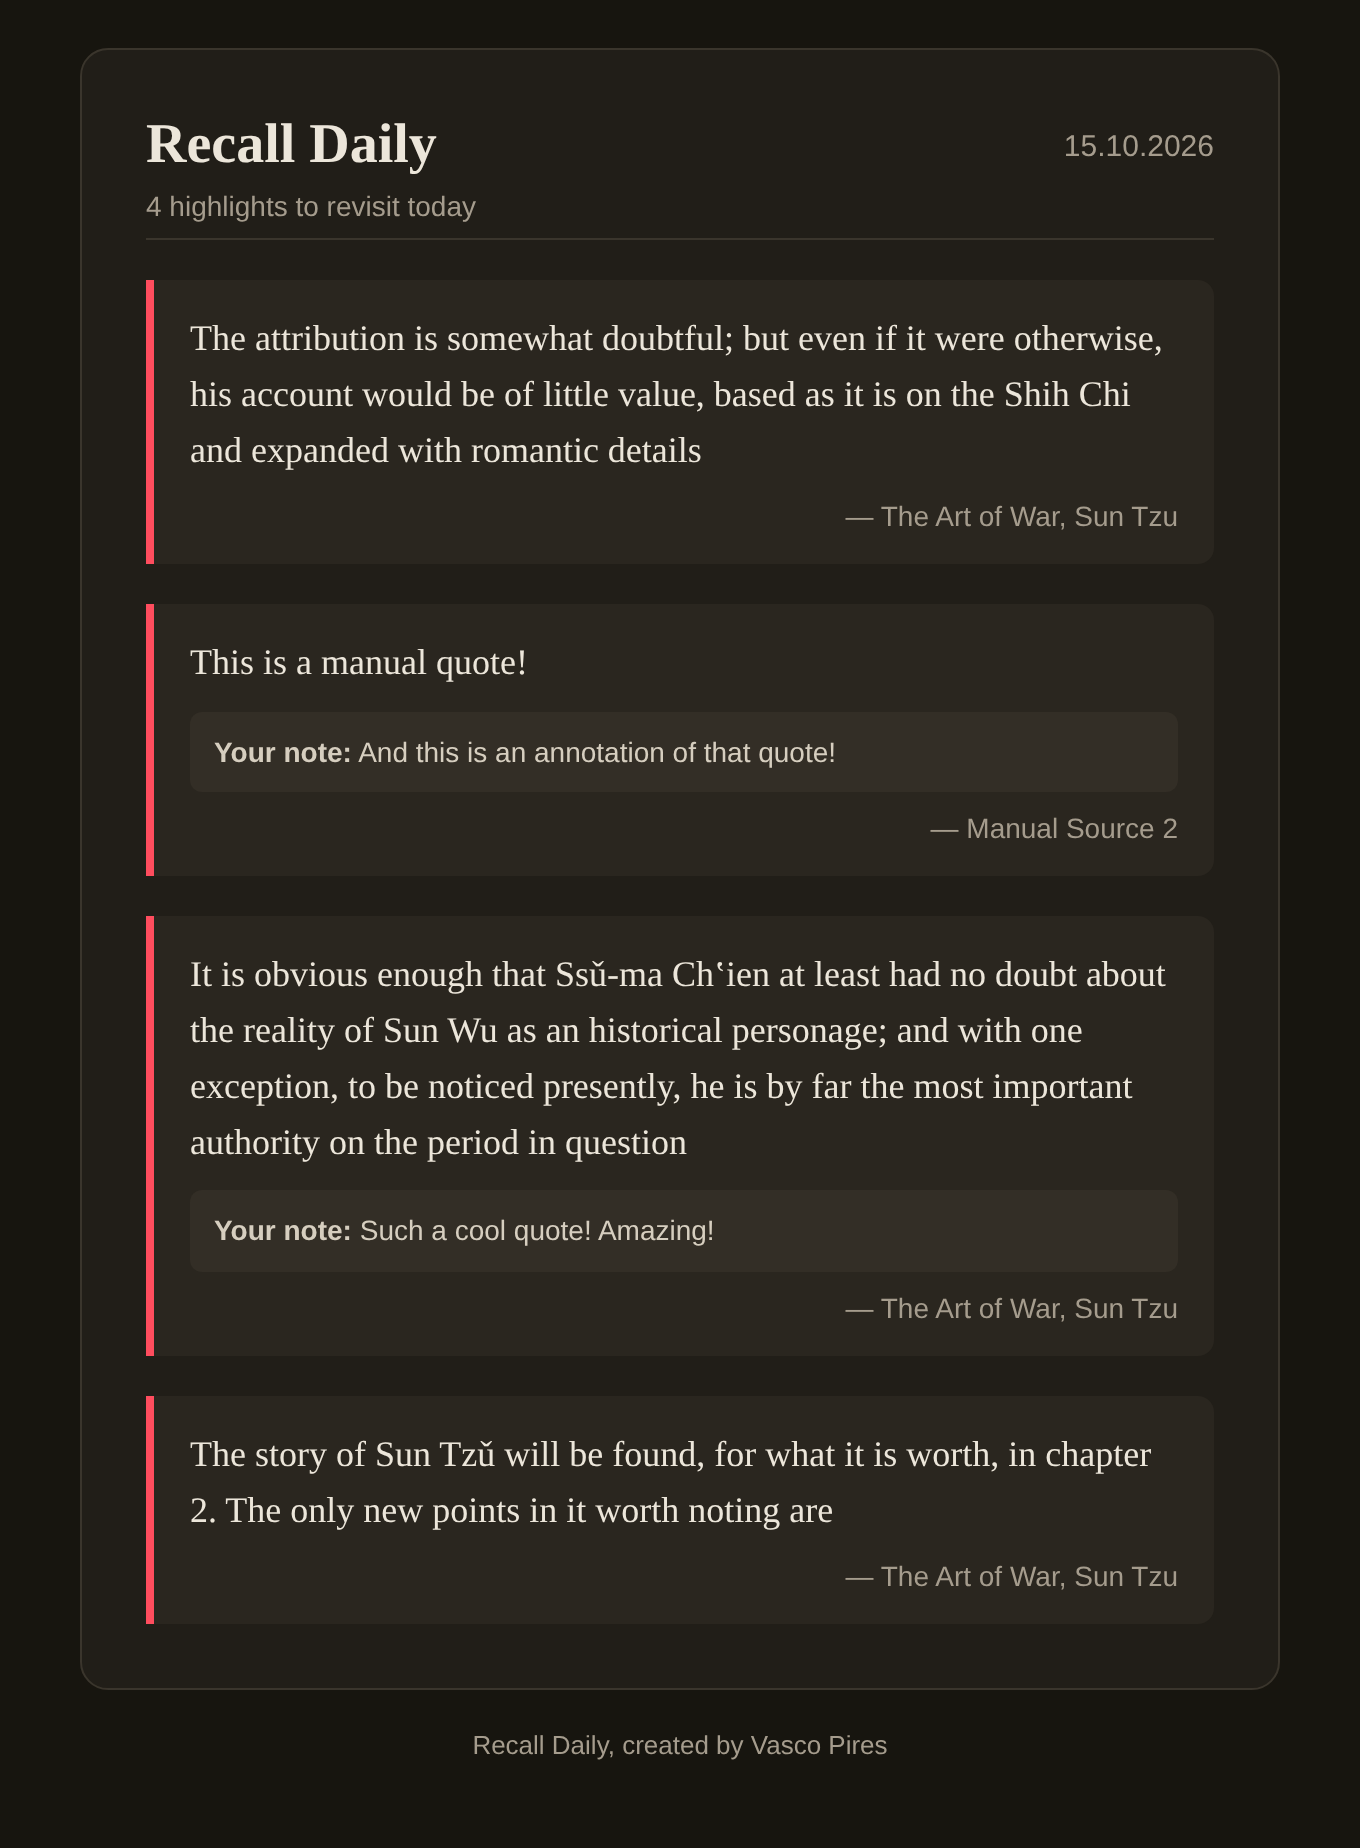
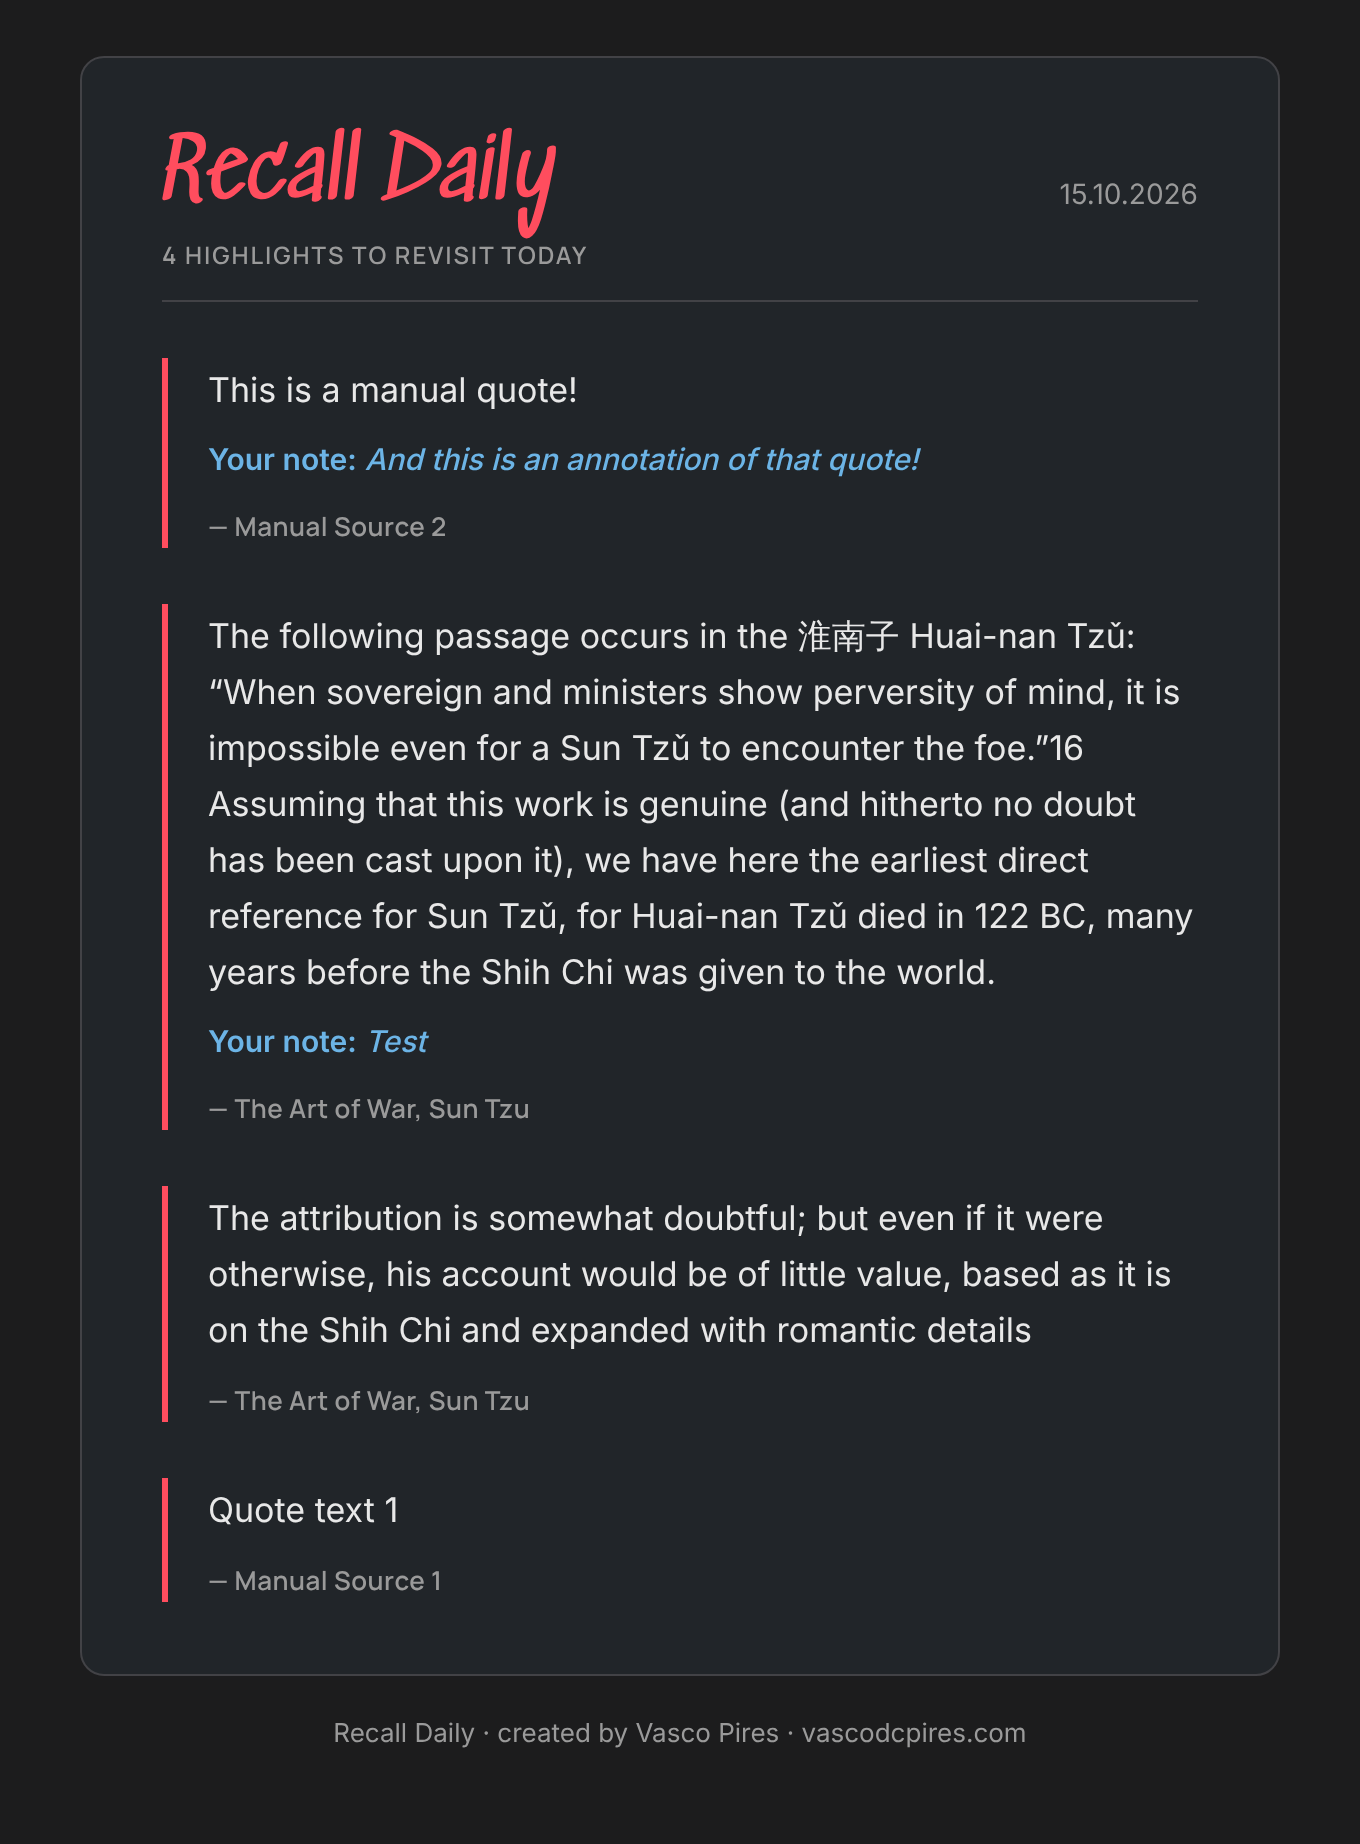
Restyle email to match vascodcpires.com
Use the website's design language: the #c7001b accent, Sedgwick Ave title,
Inter body text, Manrope labels, #2272a6 emphasis colour for notes, and the
site's light and dark palettes. Screenshots updated.

diff --git a/src/recalldaily/templates/email.html b/src/recalldaily/templates/email.html
@@ -6,49 +6,55 @@
     <meta name="color-scheme" content="light dark">
     <meta name="supported-color-schemes" content="light dark">
     <title>Recall Daily</title>
+    <!-- Same fonts as vascodcpires.com. Clients that block web fonts (e.g. Gmail) fall back gracefully. -->
+    <link href="https://fonts.googleapis.com/css2?family=Inter:wght@400;500;600&family=Manrope:wght@400;600;700&family=Sedgwick+Ave&display=swap" rel="stylesheet">
     <style>
-      body { margin: 0; padding: 0; background: #f4f1ea; }
-      .card { background: #fffdf8; border: 1px solid #e7e1d4; border-radius: 14px; }
-      .ink { color: #2b2620; }
-      .muted { color: #8a8174; }
-      .quote { border-left: 4px solid #c7001b; background: #faf6ee; }
-      .note { background: #f1ebdf; color: #4f473c; }
+      body { margin: 0; padding: 0; background: #f1f1f1; }
+      .card { background: #ffffff; border: 1px solid rgba(0, 0, 0, 0.12); border-radius: 12px; }
+      .ink { color: #000000; }
+      .muted { color: #828282; }
+      .accent { color: #c7001b; }
+      .quote { border-left: 3px solid #c7001b; }
+      .note { color: #2272a6; }
+      .rule { border-bottom: 1px solid rgba(0, 0, 0, 0.22); }
       @media (prefers-color-scheme: dark) {
-        body, .bg { background: #17150f !important; }
-        .card { background: #211e18 !important; border-color: #3a352c !important; }
-        .ink { color: #ece6da !important; }
-        .muted { color: #a59c8d !important; }
-        .quote { background: #2a261f !important; border-left-color: #ff4d5e !important; }
-        .note { background: #332e26 !important; color: #d6cebf !important; }
-        .rule { border-bottom-color: #3a352c !important; }
+        body, .bg { background: #1c1c1d !important; }
+        .card { background: #212529 !important; border-color: #424246 !important; }
+        .ink { color: #e8e8e8 !important; }
+        .muted { color: #9a9a9a !important; }
+        .accent { color: #ff4d5e !important; }
+        .quote { border-left-color: #ff4d5e !important; }
+        .note { color: #6cb4e6 !important; }
+        .rule { border-bottom-color: #424246 !important; }
       }
       @media only screen and (max-width: 640px) {
         .container { width: 100% !important; }
-        .pad { padding: 20px 16px !important; }
+        .pad { padding: 24px 18px !important; }
+        .title { font-size: 34px !important; }
       }
     </style>
   </head>
   <body>
     <span style="display:none;max-height:0;overflow:hidden;opacity:0;">$preheader</span>
     <table role="presentation" class="bg" width="100%" cellpadding="0" cellspacing="0" border="0"
-           style="background:#f4f1ea;">
+           style="background:#f1f1f1;">
       <tr>
-        <td align="center" style="padding:24px 8px;">
+        <td align="center" style="padding:28px 8px;">
           <table role="presentation" class="container" width="600" cellpadding="0" cellspacing="0"
                  border="0" style="width:600px;max-width:600px;">
             <tr>
-              <td class="card pad" style="padding:32px;background:#fffdf8;border:1px solid #e7e1d4;border-radius:14px;">
+              <td class="card pad" style="padding:36px 40px;background:#ffffff;border:1px solid rgba(0,0,0,0.12);border-radius:12px;">
                 <table role="presentation" width="100%" cellpadding="0" cellspacing="0" border="0">
                   <tr>
-                    <td class="ink" style="font-family:Georgia,'Times New Roman',serif;font-size:28px;font-weight:bold;color:#2b2620;">
+                    <td class="title accent" style="font-family:'Sedgwick Ave',Georgia,serif;font-size:42px;line-height:1.1;color:#c7001b;">
                       Recall Daily
                     </td>
-                    <td class="muted" align="right" style="font-family:Helvetica,Arial,sans-serif;font-size:15px;color:#8a8174;">
+                    <td class="muted" align="right" valign="bottom" style="font-family:Inter,Manrope,Helvetica,Arial,sans-serif;font-size:14px;color:#828282;padding-bottom:6px;">
                       $date
                     </td>
                   </tr>
                   <tr>
-                    <td colspan="2" class="muted rule" style="padding:6px 0 8px;border-bottom:1px solid #e7e1d4;font-family:Helvetica,Arial,sans-serif;font-size:14px;color:#8a8174;">
+                    <td colspan="2" class="muted rule" style="padding:8px 0 14px;border-bottom:1px solid rgba(0,0,0,0.22);font-family:Manrope,Inter,Helvetica,Arial,sans-serif;font-size:12px;font-weight:600;letter-spacing:0.08em;text-transform:uppercase;color:#828282;">
                       $count to revisit today
                     </td>
                   </tr>
@@ -57,7 +63,7 @@
               </td>
             </tr>
             <tr>
-              <td class="muted" align="center" style="padding:20px 0;font-family:Helvetica,Arial,sans-serif;font-size:13px;color:#8a8174;">
+              <td class="muted" align="center" style="padding:20px 0;font-family:Inter,Manrope,Helvetica,Arial,sans-serif;font-size:13px;color:#828282;">
                 $footer
               </td>
             </tr>

diff --git a/src/recalldaily/render.py b/src/recalldaily/render.py
@@ -13,25 +13,25 @@ from recalldaily.text import paragraphs
 
 QUOTE_HTML = Template("""
                 <table role="presentation" width="100%" cellpadding="0" cellspacing="0" border="0"
-                       style="margin-top:20px;">
+                       style="margin-top:28px;">
                   <tr>
-                    <td class="quote" style="padding:16px 18px;border-left:4px solid #c7001b;background:#faf6ee;border-radius:0 8px 8px 0;">
+                    <td class="quote" style="padding:2px 0 2px 20px;border-left:3px solid #c7001b;">
                       $paragraphs
                       $note
-                      <p class="muted" style="margin:10px 0 0;text-align:right;font-family:Helvetica,Arial,sans-serif;font-size:14px;color:#8a8174;">— $source</p>
+                      <p class="muted" style="margin:12px 0 0;font-family:Manrope,Inter,Helvetica,Arial,sans-serif;font-size:13px;font-weight:600;letter-spacing:0.02em;color:#828282;">— $source</p>
                     </td>
                   </tr>
                 </table>""")
 
 PARAGRAPH_HTML = Template(
-    '<p class="ink" style="margin:0 0 10px;font-family:Georgia,\'Times New Roman\',serif;'
-    'font-size:18px;line-height:1.55;color:#2b2620;">$text</p>'
+    '<p class="ink" style="margin:0 0 10px;font-family:Inter,Manrope,Helvetica,Arial,sans-serif;'
+    'font-size:17px;line-height:1.65;color:#000000;">$text</p>'
 )
 
 NOTE_HTML = Template(
-    '<p class="note" style="margin:8px 0 0;padding:10px 12px;border-radius:6px;'
-    "font-family:Helvetica,Arial,sans-serif;font-size:14px;line-height:1.45;"
-    'background:#f1ebdf;color:#4f473c;"><strong>Your note:</strong> $text</p>'
+    '<p class="note" style="margin:10px 0 0;font-family:Inter,Manrope,Helvetica,Arial,sans-serif;'
+    'font-size:15px;line-height:1.5;font-style:italic;font-weight:500;color:#2272a6;">'
+    '<span style="font-style:normal;font-weight:600;">Your note:</span> $text</p>'
 )
 
 
